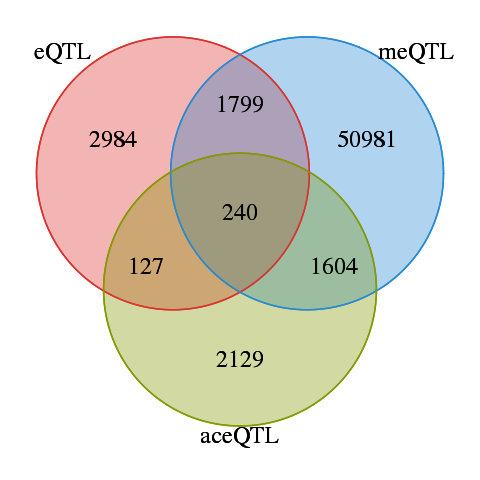
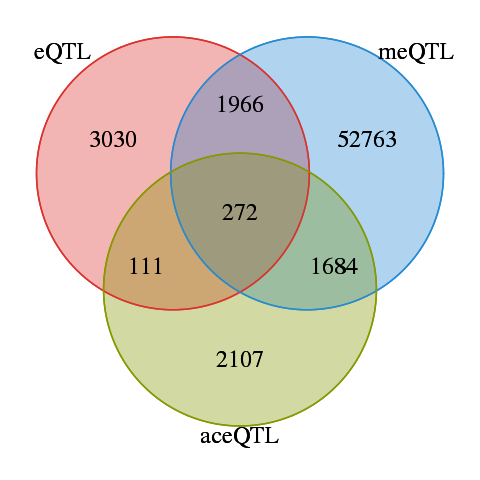
Updated some plots

diff --git a/plots/qtl_venn.tex b/plots/qtl_venn.tex
@@ -1,4 +1,4 @@
-% Created by tikzDevice version 0.7.0 on 2015-03-24 14:10:25
+% Created by tikzDevice version 0.7.0 on 2015-04-17 18:24:44
 % !TEX encoding = UTF-8 Unicode
 \begin{tikzpicture}[x=1pt,y=1pt]
 \definecolor[named]{fillColor}{rgb}{0.99,0.96,0.89}
@@ -18031,19 +18031,19 @@
 	(113.35, 57.34);
 \definecolor[named]{drawColor}{rgb}{0.40,0.48,0.51}
 
-\node[text=drawColor,anchor=base,inner sep=0pt, outer sep=0pt, scale=  1.00] at ( 33.95, 99.35) {2984};
+\node[text=drawColor,anchor=base,inner sep=0pt, outer sep=0pt, scale=  1.00] at ( 33.95, 99.35) {3030};
 
-\node[text=drawColor,anchor=base,inner sep=0pt, outer sep=0pt, scale=  1.00] at ( 72.27,109.81) {1799};
+\node[text=drawColor,anchor=base,inner sep=0pt, outer sep=0pt, scale=  1.00] at ( 72.27,109.81) {1966};
 
-\node[text=drawColor,anchor=base,inner sep=0pt, outer sep=0pt, scale=  1.00] at (110.59, 99.35) {50981};
+\node[text=drawColor,anchor=base,inner sep=0pt, outer sep=0pt, scale=  1.00] at (110.59, 99.35) {52763};
 
-\node[text=drawColor,anchor=base,inner sep=0pt, outer sep=0pt, scale=  1.00] at ( 44.05, 60.93) {127};
+\node[text=drawColor,anchor=base,inner sep=0pt, outer sep=0pt, scale=  1.00] at ( 44.05, 60.93) {111};
 
-\node[text=drawColor,anchor=base,inner sep=0pt, outer sep=0pt, scale=  1.00] at ( 72.27, 77.23) {240};
+\node[text=drawColor,anchor=base,inner sep=0pt, outer sep=0pt, scale=  1.00] at ( 72.27, 77.23) {272};
 
-\node[text=drawColor,anchor=base,inner sep=0pt, outer sep=0pt, scale=  1.00] at (100.49, 60.93) {1604};
+\node[text=drawColor,anchor=base,inner sep=0pt, outer sep=0pt, scale=  1.00] at (100.49, 60.93) {1684};
 
-\node[text=drawColor,anchor=base,inner sep=0pt, outer sep=0pt, scale=  1.00] at ( 72.27, 32.97) {2129};
+\node[text=drawColor,anchor=base,inner sep=0pt, outer sep=0pt, scale=  1.00] at ( 72.27, 32.97) {2107};
 
 \node[text=drawColor,anchor=base,inner sep=0pt, outer sep=0pt, scale=  1.00] at ( 19.06,124.78) {eQTL};
 
@@ -36076,19 +36076,19 @@
 	(113.35, 57.34);
 \definecolor[named]{drawColor}{rgb}{0.40,0.48,0.51}
 
-\node[text=drawColor,anchor=base,inner sep=0pt, outer sep=0pt, scale=  1.00] at ( 33.95, 99.35) {2984};
+\node[text=drawColor,anchor=base,inner sep=0pt, outer sep=0pt, scale=  1.00] at ( 33.95, 99.35) {3030};
 
-\node[text=drawColor,anchor=base,inner sep=0pt, outer sep=0pt, scale=  1.00] at ( 72.27,109.81) {1799};
+\node[text=drawColor,anchor=base,inner sep=0pt, outer sep=0pt, scale=  1.00] at ( 72.27,109.81) {1966};
 
-\node[text=drawColor,anchor=base,inner sep=0pt, outer sep=0pt, scale=  1.00] at (110.59, 99.35) {50981};
+\node[text=drawColor,anchor=base,inner sep=0pt, outer sep=0pt, scale=  1.00] at (110.59, 99.35) {52763};
 
-\node[text=drawColor,anchor=base,inner sep=0pt, outer sep=0pt, scale=  1.00] at ( 44.05, 60.93) {127};
+\node[text=drawColor,anchor=base,inner sep=0pt, outer sep=0pt, scale=  1.00] at ( 44.05, 60.93) {111};
 
-\node[text=drawColor,anchor=base,inner sep=0pt, outer sep=0pt, scale=  1.00] at ( 72.27, 77.23) {240};
+\node[text=drawColor,anchor=base,inner sep=0pt, outer sep=0pt, scale=  1.00] at ( 72.27, 77.23) {272};
 
-\node[text=drawColor,anchor=base,inner sep=0pt, outer sep=0pt, scale=  1.00] at (100.49, 60.93) {1604};
+\node[text=drawColor,anchor=base,inner sep=0pt, outer sep=0pt, scale=  1.00] at (100.49, 60.93) {1684};
 
-\node[text=drawColor,anchor=base,inner sep=0pt, outer sep=0pt, scale=  1.00] at ( 72.27, 32.97) {2129};
+\node[text=drawColor,anchor=base,inner sep=0pt, outer sep=0pt, scale=  1.00] at ( 72.27, 32.97) {2107};
 
 \node[text=drawColor,anchor=base,inner sep=0pt, outer sep=0pt, scale=  1.00] at ( 19.06,124.78) {eQTL};
 

diff --git a/plots/datatypes_venn.tex b/plots/datatypes_venn.tex
@@ -1,4 +1,4 @@
-% Created by tikzDevice version 0.7.0 on 2015-03-24 22:21:56
+% Created by tikzDevice version 0.7.0 on 2015-04-17 18:06:12
 % !TEX encoding = UTF-8 Unicode
 \begin{tikzpicture}[x=1pt,y=1pt]
 \definecolor[named]{fillColor}{rgb}{0.99,0.96,0.89}
